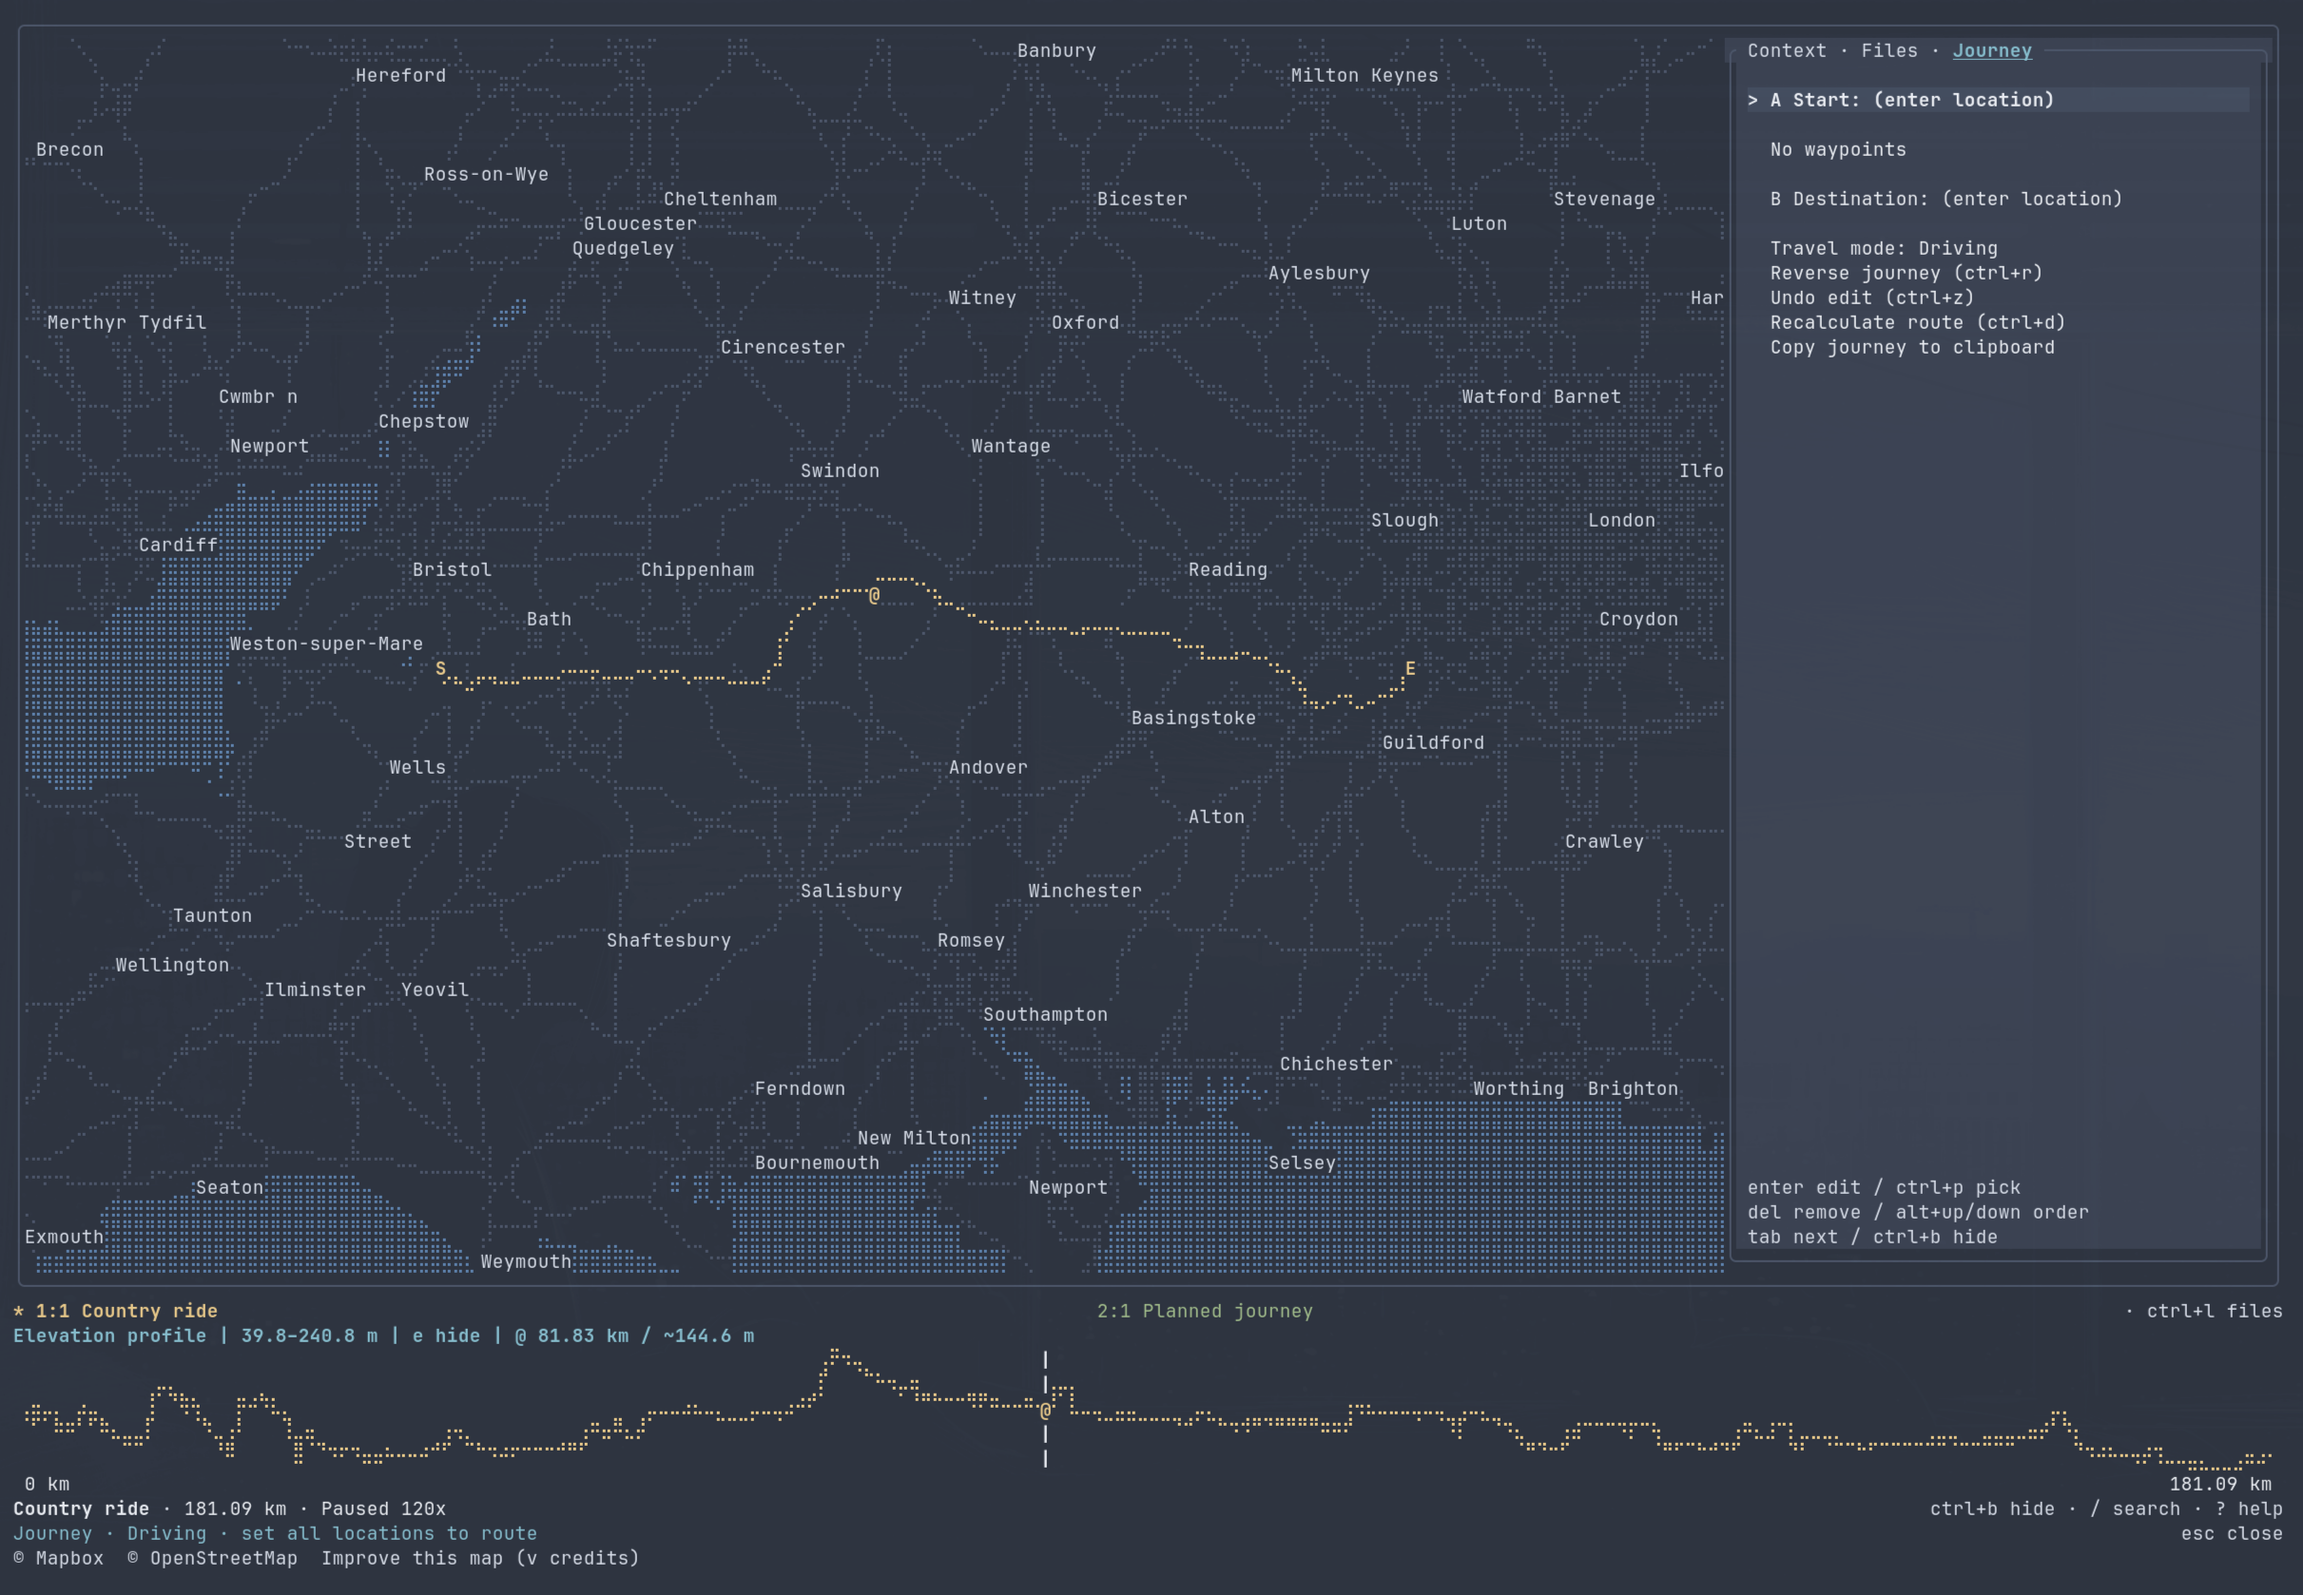
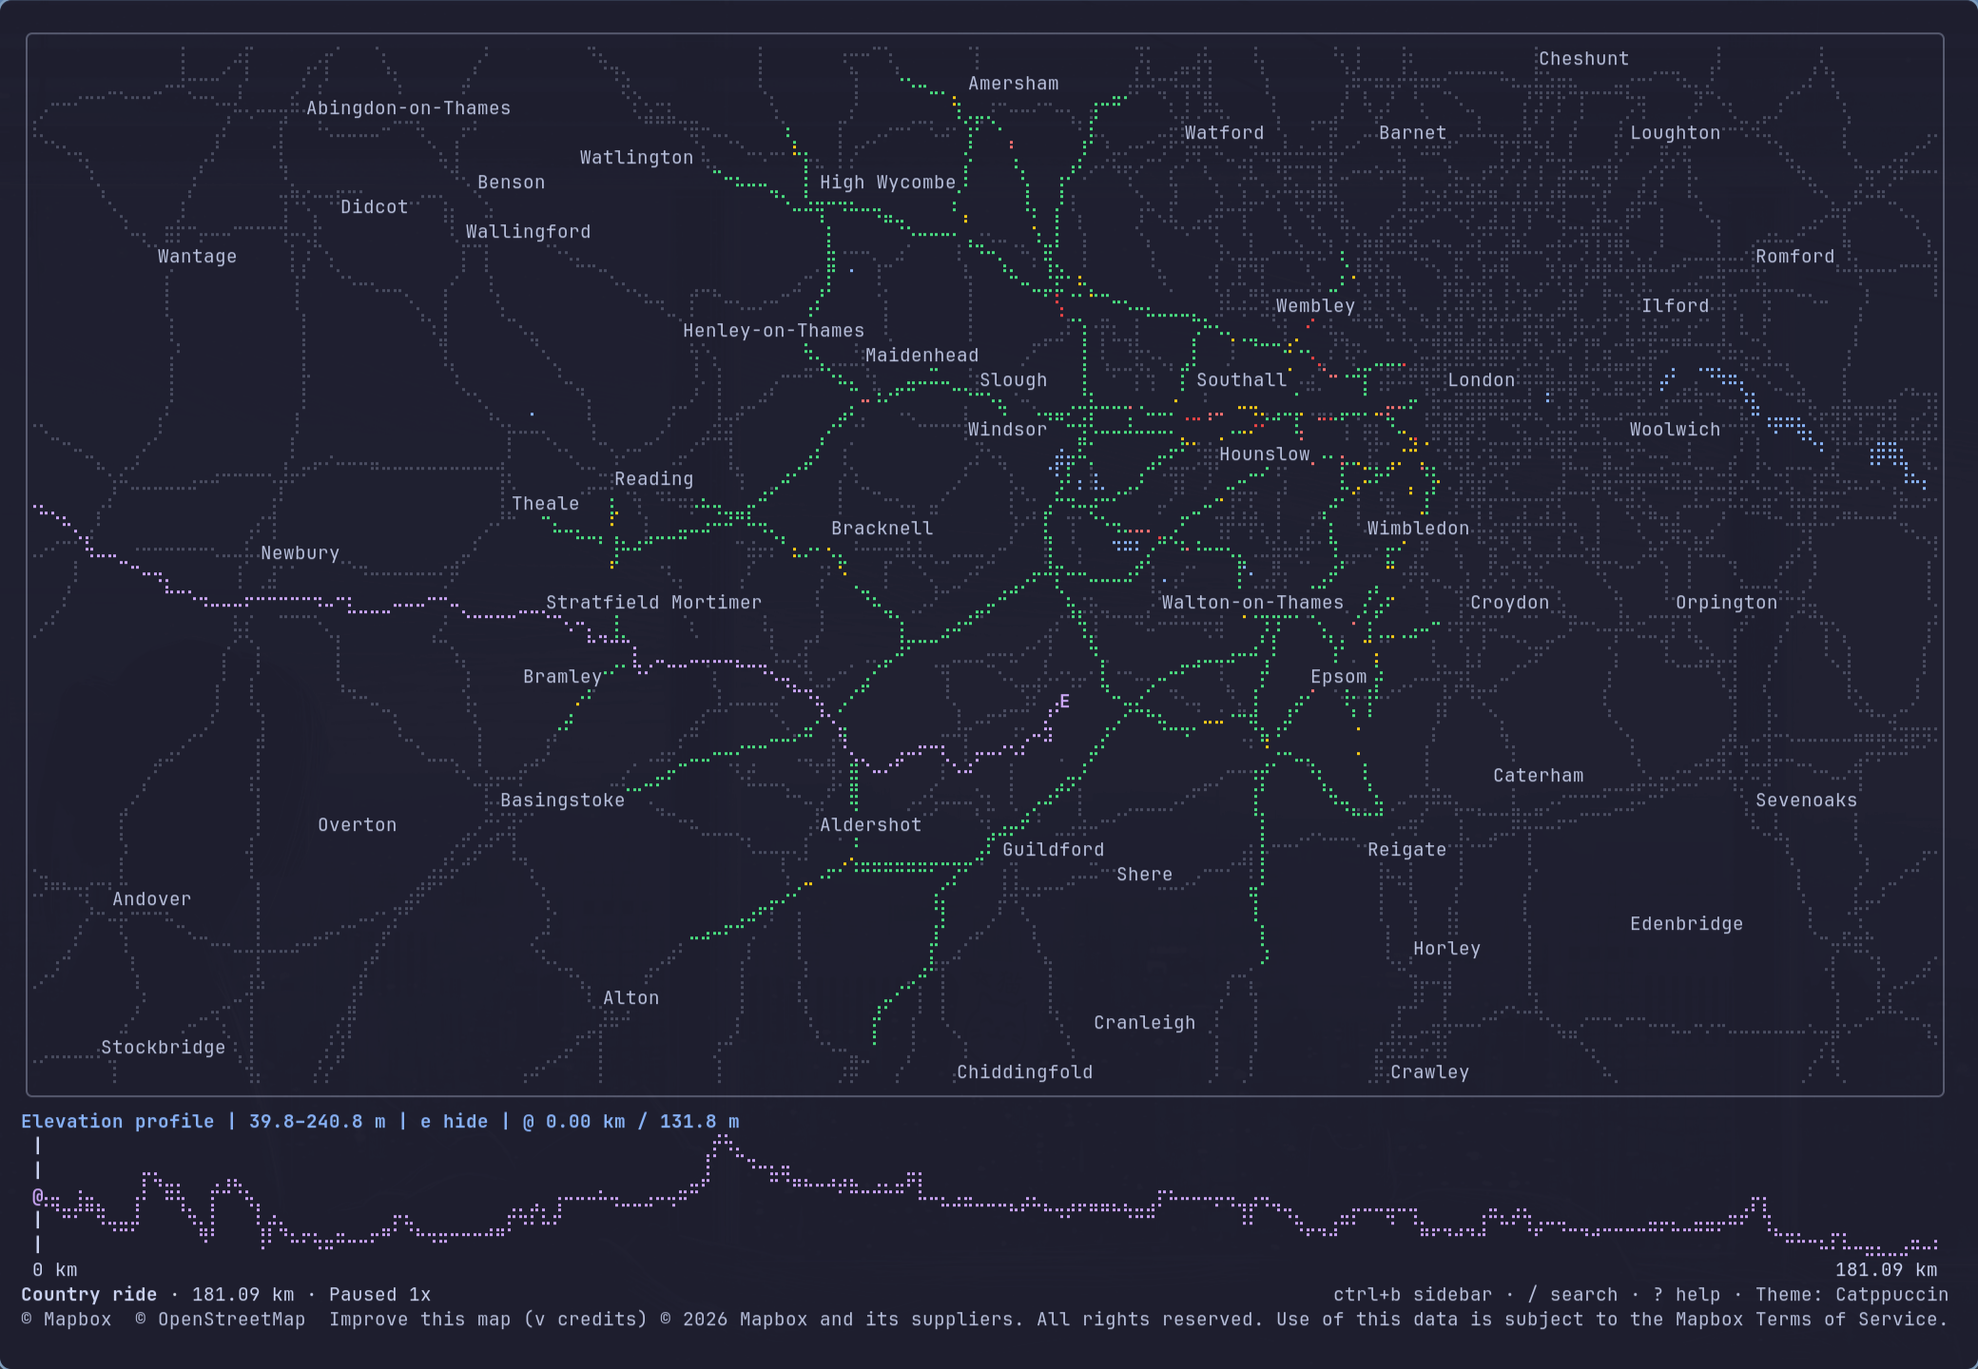
docs(readme): Updates the main screenshot (#69)

diff --git a/README.md b/README.md
@@ -11,7 +11,7 @@ with a JSON CLI and local MCP server. Desgined to work with Mapbox for place, se
 [Getting started](#getting-started) · [MCP](#agent-workflow) ·
 [Themes](#themes) · [Other terminal maps](#other-terminal-map-projects)
 
-![Mapbox TUI showing the Country ride on a map, with an elevation profile and the journey planning panel](docs/images/mapbox-tui.png)
+![Mapbox TUI showing the Country ride near London, with an elevation profile](docs/images/mapbox-tui.png)
 
 ## Features
 
